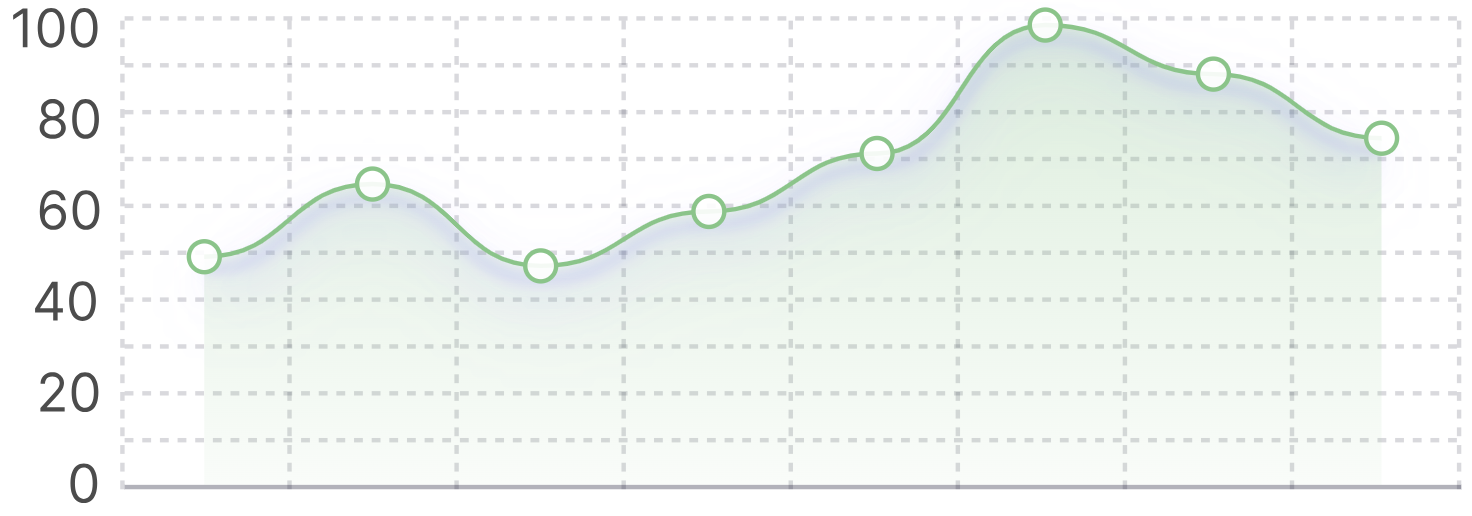
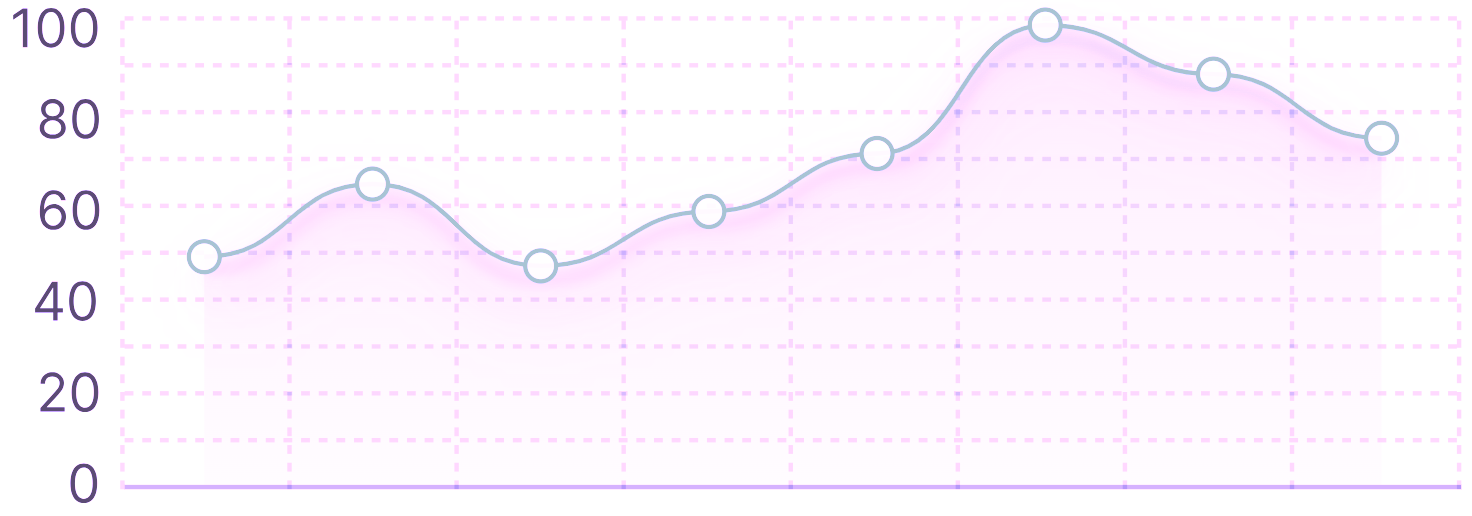
UI Changes

diff --git a/Frontend/src/Components/MobileHomePage.js b/Frontend/src/Components/MobileHomePage.js
@@ -73,7 +73,7 @@ const MobileHomePage = ({ profile, userId, isMobile, setShowNameModal }) => {
         {/* Greeting section */}
         <div className="welcome-card">
         <p className="welcome-tagline">Reflect, improve, and grow — one session at a time.</p>
-        <p className="welcome-description">
+        <p className="section-description">
           Review your parent-child interaction videos, reflect meaningfully, and get AI-powered insights to guide your next steps.
         </p>
       </div>
@@ -98,7 +98,7 @@ const MobileHomePage = ({ profile, userId, isMobile, setShowNameModal }) => {
             className="history-button"
             onClick={() => setViewHistory(true)}
           >
-            View History →
+            View History
           </button>
         </div>
         </div>

diff --git a/Frontend/src/Components/CSS/MobileHomePage.css b/Frontend/src/Components/CSS/MobileHomePage.css
@@ -31,15 +31,15 @@
 }
 
 .welcome-tagline {
-  margin: 0 0 10px;
+  margin: 0 0 8px;
   font-size: 1rem;
   font-weight: 500;
   color: #3a3a3a;
 }
 
-.welcome-description {
+.section-description {
   margin: 0;
-  font-size: 0.95rem;
+  font-size: 1rem;
   color: #555;
   line-height: 1.5;
 }
@@ -78,7 +78,7 @@
 }
 
 .section-title {
-  font-size: 1rem;
+  font-size: 1.1rem;
   font-weight: 500;
   margin: 0 0 8px 0;
   color: #4a4a4a;
@@ -87,7 +87,7 @@
 .stat-number {
   font-size: 1.8rem;
   font-weight: 600;
-  color: #007bff;
+  color: #4e0487ba;
   margin: auto 0;
 }
 
@@ -100,7 +100,7 @@
   font-size: 0.9rem;
   font-weight: 500;
   cursor: pointer;
-  margin-top: auto;
+  margin-top: 15px;
   display: flex;
   justify-content: center;
   align-items: center;

diff --git a/Frontend/src/Components/Current Training/Components/CSS/MyProgress.css b/Frontend/src/Components/Current Training/Components/CSS/MyProgress.css
@@ -17,7 +17,7 @@
 .blue-dot {
   width: 8px;
   height: 8px;
-  background-color: #3cb372d3;
+  background-color: #4e0487ba;
   border-radius: 50%;
   margin-right: 8px;
 }
@@ -31,7 +31,7 @@
 .green-divider {
   height: 3px;
   width: 100%;
-  background-color: #3cb372d3;
+  background-color: #4e0487ba;
   border-radius: 1px;
   margin-bottom: 16px;
 }
